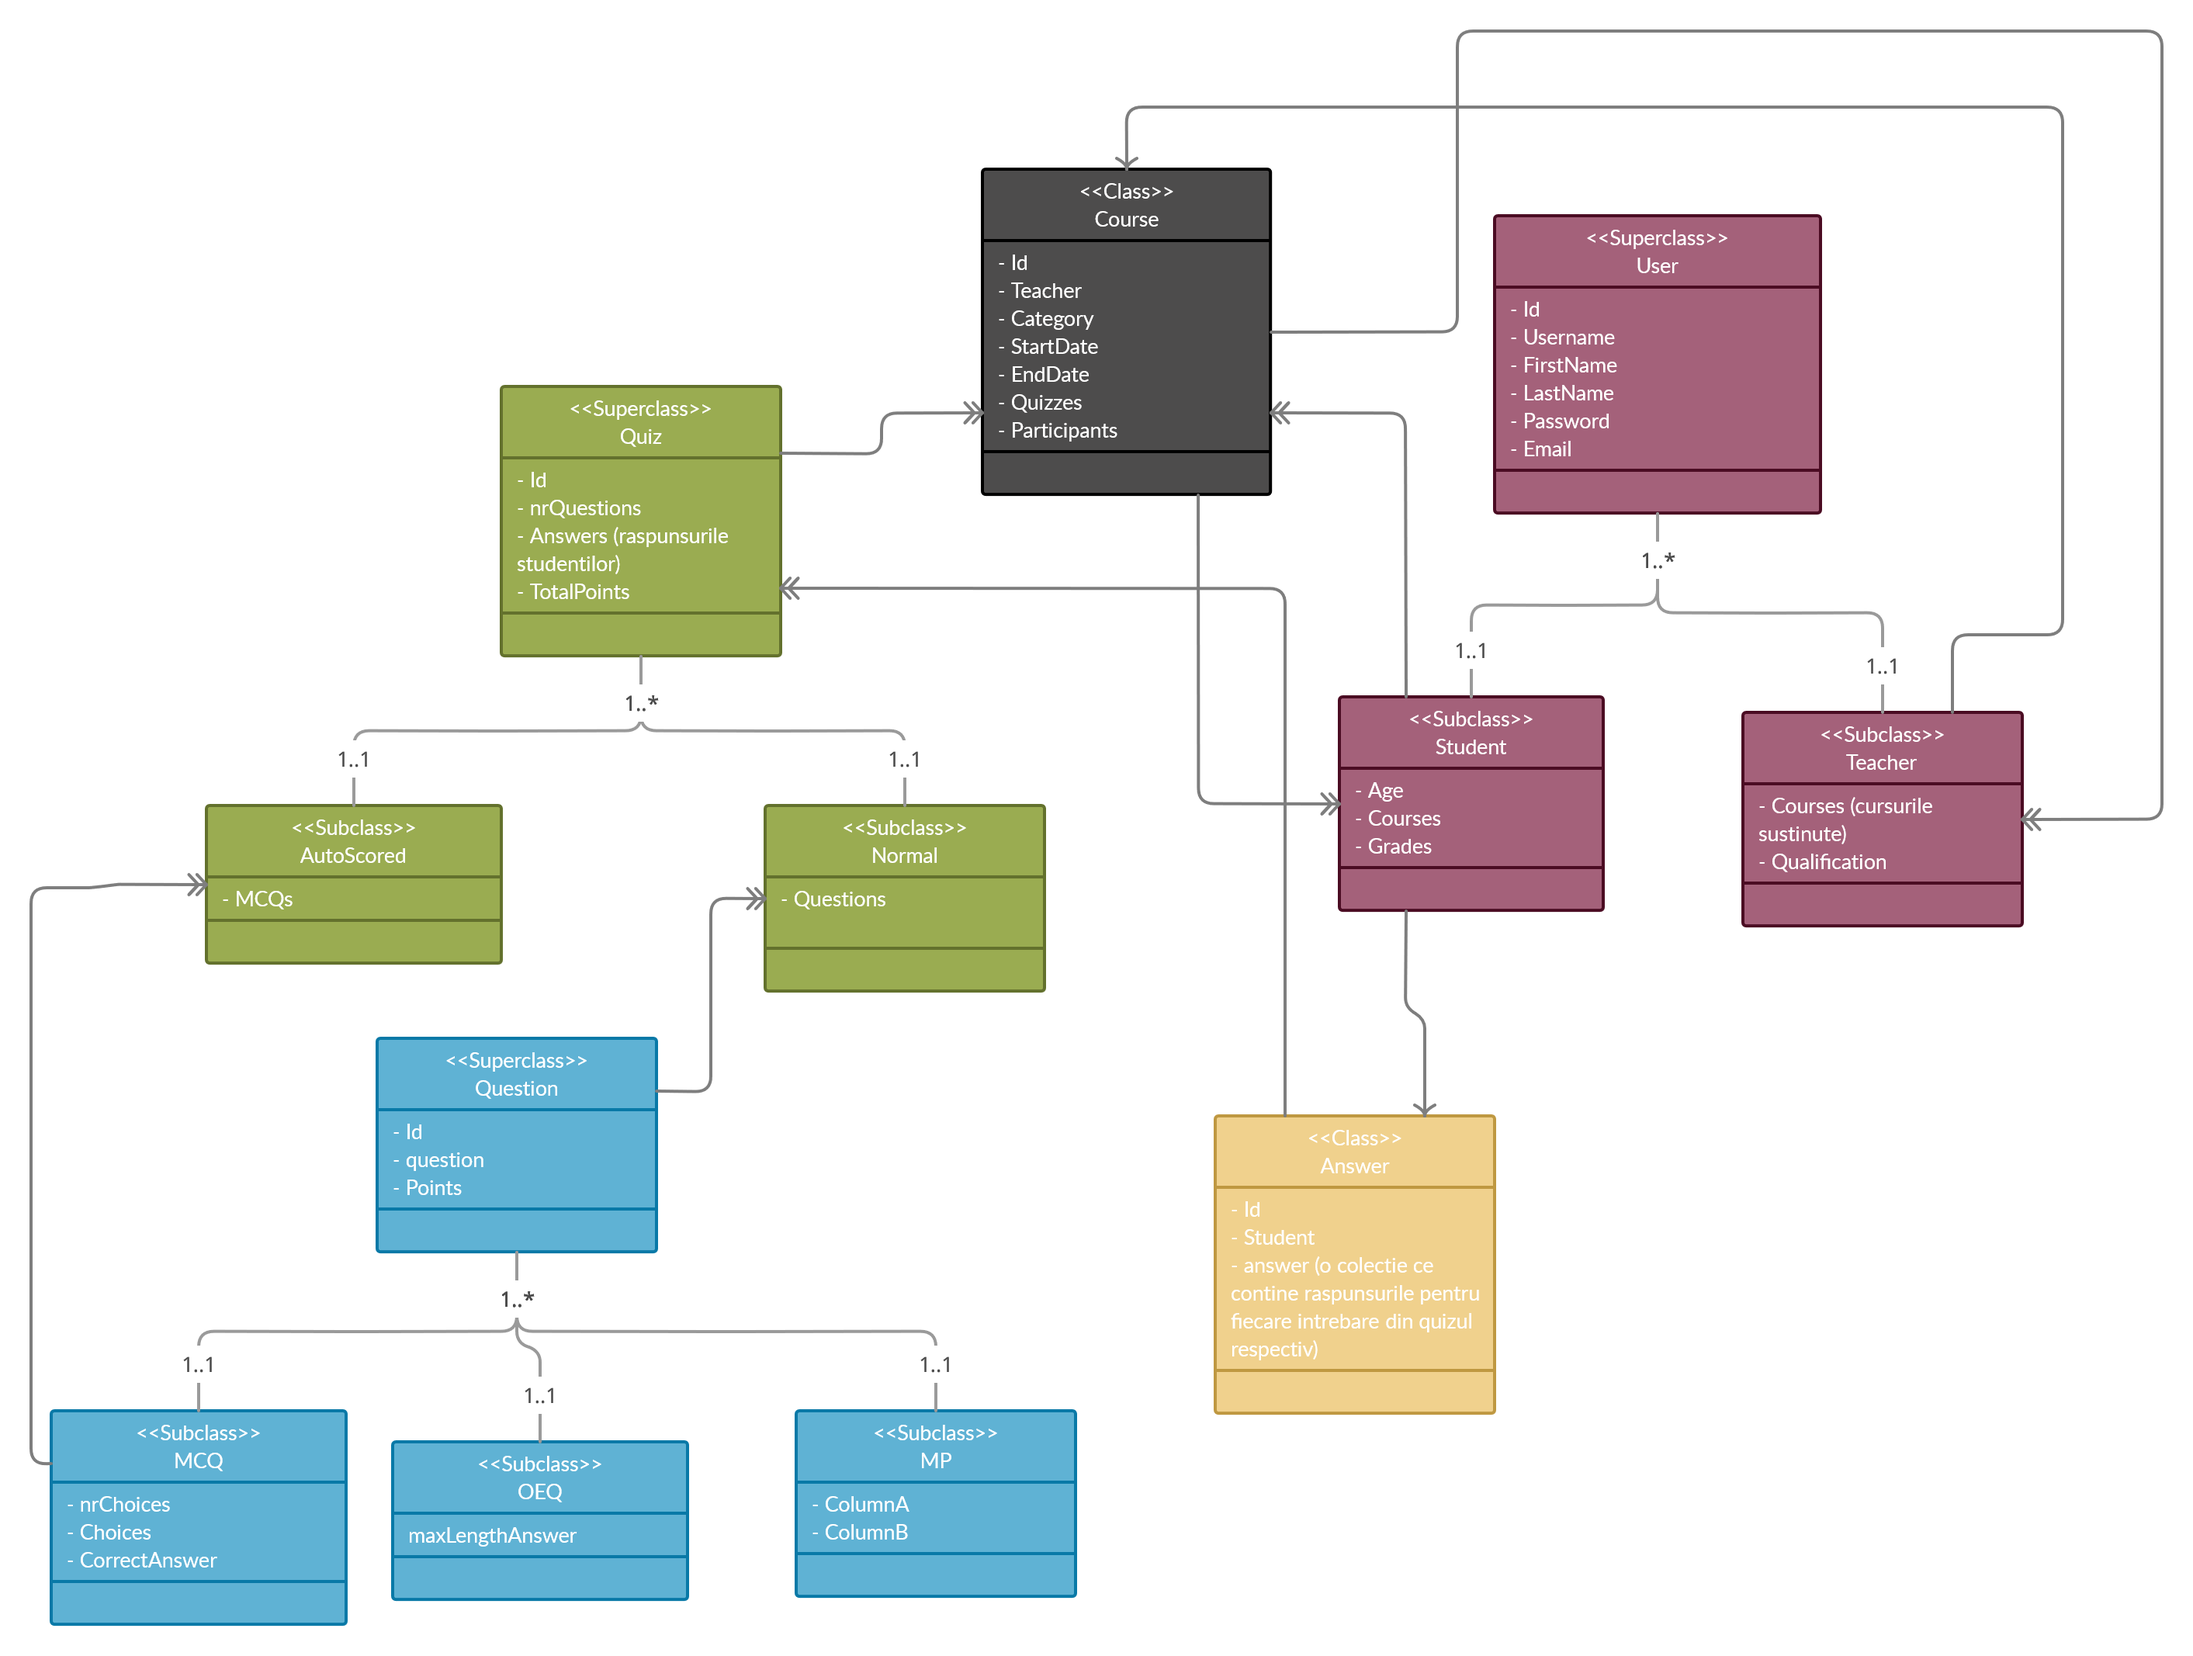
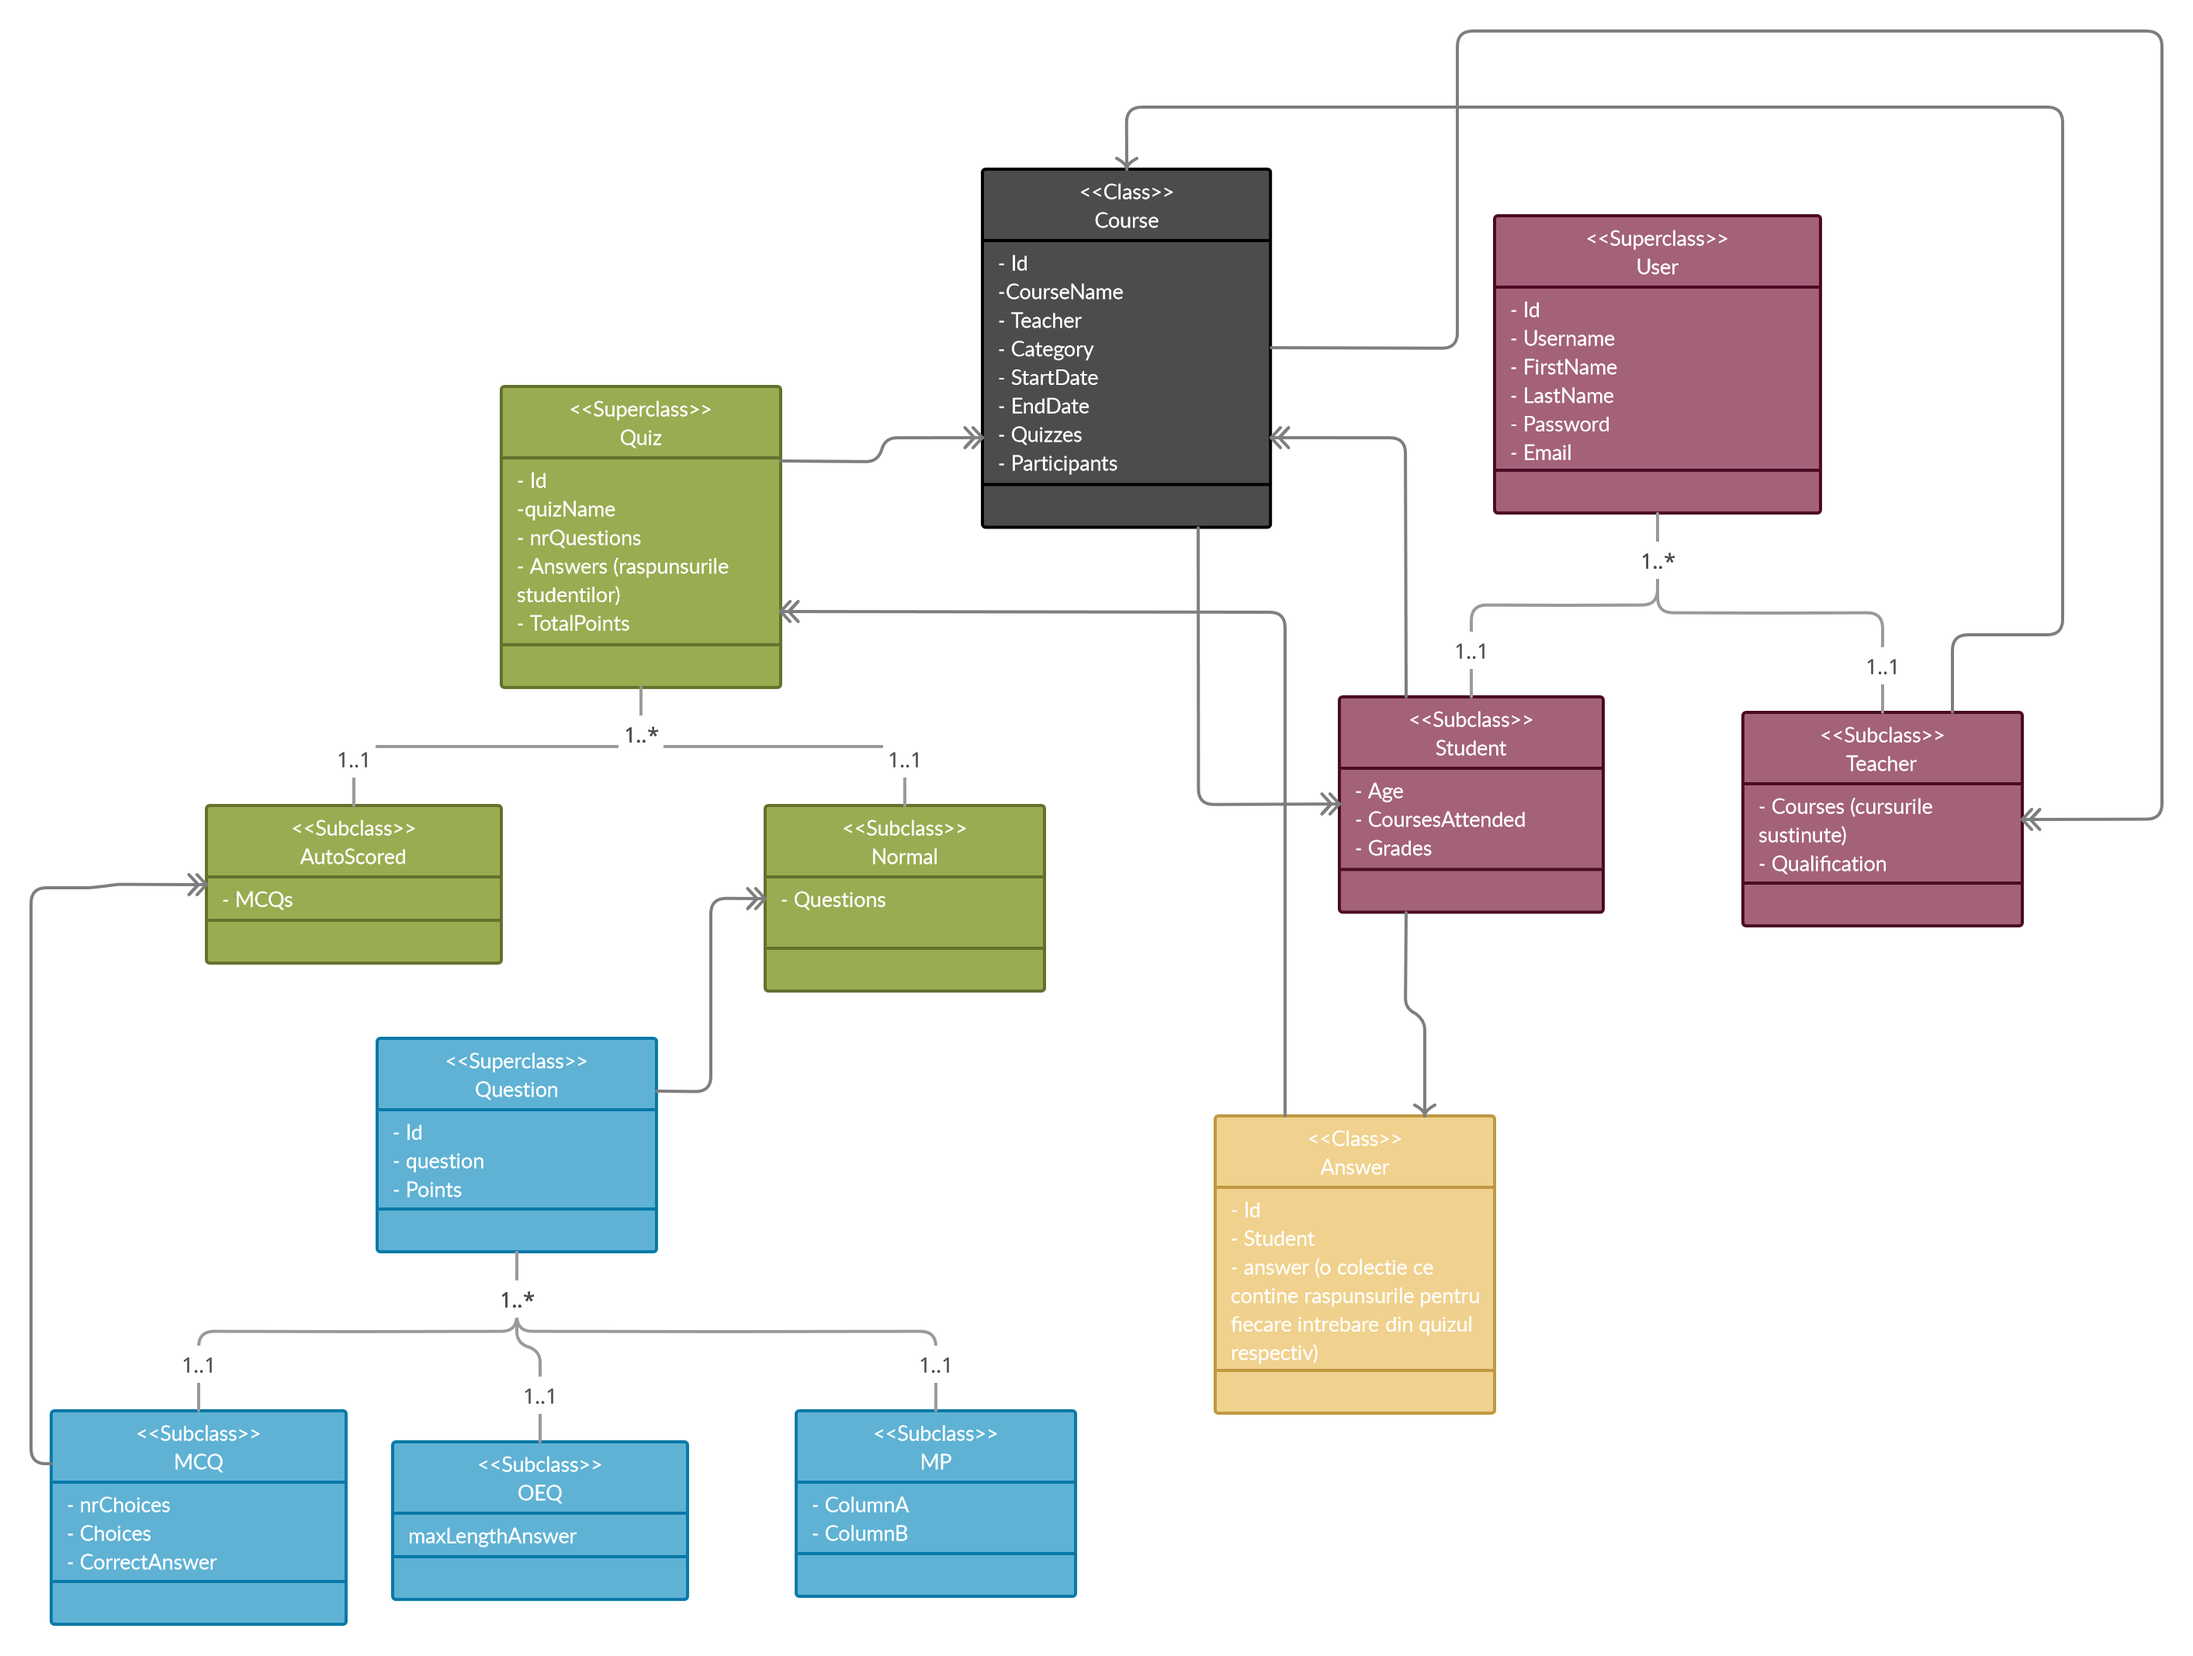
updated readme + added Teacher and Student

diff --git a/src/Student.java b/src/Student.java
@@ -1,0 +1,50 @@
+import java.util.Collections;
+import java.util.Map;
+import java.util.Set;
+
+public class Student extends User{
+    private int age;
+    private Set<Course> coursesAttended;
+    private Map<String,Integer> grades;
+
+    public Student(){
+        super();
+    }
+
+    public Student(String username, String firstName, String lastName, String password, String email, int age){
+
+        super(username,firstName,lastName,password,email);
+
+        this.age = age;
+
+    }
+
+    {
+        this.coursesAttended = new Collections.emptySet<Course>();
+        this.grades = new  Collections.emptyMap<Course>();
+    }
+
+    public int getAge() {
+        return age;
+    }
+
+    public Set<Course> getCourses() {
+        return coursesAttended;
+    }
+
+    public Map<String, Integer> getGrades() {
+        return grades;
+    }
+
+    public void setAge(int age) {
+        this.age = age;
+    }
+
+    public void addGrade(String quiz, Integer grade){
+        this.grades.put(quiz, grade);
+    }
+
+    public void addCourse(Course course){
+        this.coursesAttended.add(course);
+    }
+}

diff --git a/src/Teacher.java b/src/Teacher.java
@@ -1,0 +1,40 @@
+import java.util.Collections;
+import java.util.Set;
+
+public class Teacher extends User {
+    Set<Course> Courses;
+    String qualification;
+
+    public Teacher(){
+        super();
+
+    }
+
+    public Teacher (String username, String firstName, String lastName, String password, String email, String qualification){
+        super(username,firstName,lastName,password,email);
+
+        this.qualification = qualification;
+
+    }
+
+    {
+        this.Courses = new Collections.emptySet<Course>();
+    }
+
+    public Set<Course> getCourses() {
+        return Courses;
+    }
+
+    public String getQualification() {
+        return qualification;
+    }
+
+    public void setQualification(String qualification) {
+        this.qualification = qualification;
+    }
+
+    public void addCourse(Course course){
+        this.Courses.add(course);
+    }
+
+}

diff --git a/src/User.java b/src/User.java
@@ -74,5 +74,5 @@ public abstract class User {
     public void setPassword(String password) {
         this.password = password;
     }
-    
+
 }
